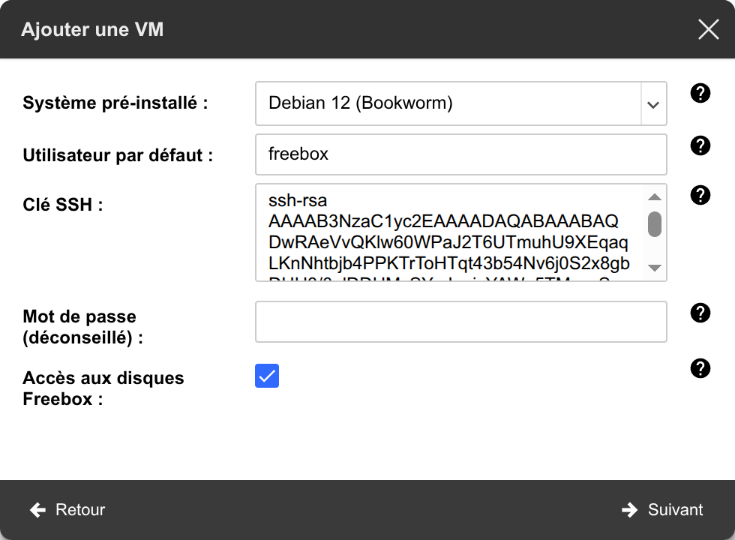
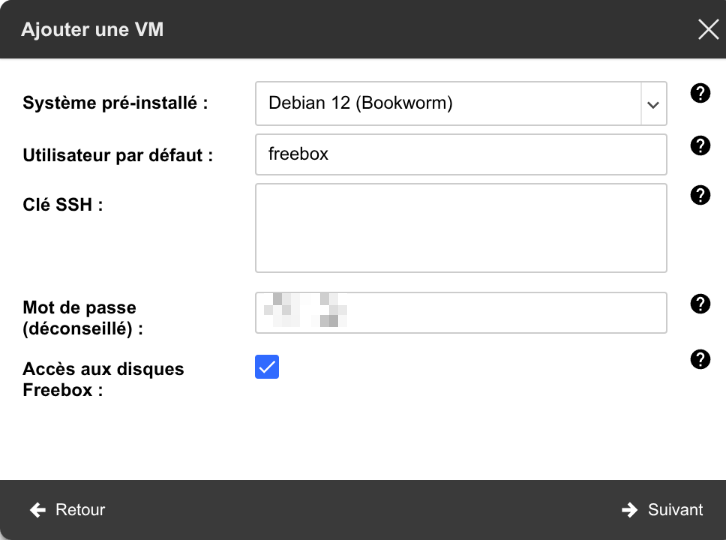
README: install steps follow Freebox OS (cloud-init in VM properties, Appliquer), new screenshots, measured install times

diff --git a/README.md b/README.md
@@ -42,10 +42,18 @@ la vidéo) et le résultat est affiché dans la page.
    - Cochez **Accès aux disques Freebox** (Ultra comme Delta) : Freebox OS ajoute alors au
      cloud-init le montage du disque de la Freebox, avec le bon nom selon le modèle.
 
-   ![Système, utilisateur et accès aux disques](docs/img/03-systeme-disques.png)
+   ![Système, utilisateur, mot de passe et accès aux disques](docs/img/03-systeme-disques.png)
 
-3. Freebox OS affiche ensuite le cloud-init qu'il a préparé. Ne changez rien, ajoutez
-   seulement **une ligne à la fin**, sous `- mount -a`, avec les mêmes 2 espaces devant :
+3. Taille du disque : le minimum proposé (10 Go) convient. Les enregistrements ne sont pas
+   stockés sur le disque de la VM mais sur celui de la Freebox. Cliquez sur **Terminer** :
+   la VM est créée, **ne la démarrez pas encore**.
+
+   ![Taille du disque](docs/img/04-taille-disque.png)
+
+4. Dans la fenêtre VMs, sélectionnez la nouvelle VM : ses propriétés s'affichent. Dans la
+   section **Pré-configuration**, la zone **cloud-init user-data** contient ce que Freebox OS
+   a préparé. Ne changez rien, ajoutez seulement **une ligne à la fin**, sous `- mount -a`,
+   avec les mêmes 2 espaces devant :
 
    ```yaml
      - curl -fsSL https://raw.githubusercontent.com/lianee/freebox-recorder/master/install.sh | bash > /var/log/fbxrec-install.log 2>&1
@@ -61,20 +69,16 @@ la vidéo) et le résultat est affiché dans la page.
 
    Cliquez ensuite sur **Appliquer** pour que la modification soit prise en compte.
 
-   <!-- TODO capture d'écran de l'étape cloud-init, ligne ajoutée et bouton Appliquer -->
+   ![Cloud-init avec la ligne ajoutée, bouton Appliquer](docs/img/03b-cloud-init.png)
 
-   À faire **avant le premier démarrage** : cloud-init ne s'exécute qu'une fois. Si vous
-   l'avez oublié, voir « Installation sur une VM existante ».
+   À faire **avant le premier démarrage** : cloud-init ne s'exécute qu'au premier
+   démarrage. Si vous l'avez oublié, voir « Installation sur une VM existante ».
 
    Freebox OS y écrit aussi `ssh_pwauth: True` : la connexion SSH par mot de passe est
    ouverte depuis le réseau local. Remplacez `True` par `False` si seule la Console de
    Freebox OS vous suffit.
-4. Taille du disque : le minimum proposé (10 Go) convient. Les enregistrements ne sont pas
-   stockés sur le disque de la VM mais sur celui de la Freebox.
 
-   ![Taille du disque](docs/img/04-taille-disque.png)
-
-5. Démarrez la VM. Elle s'installe toute seule : environ 3 minutes sur Ultra, 10 minutes sur
+5. Démarrez la VM. Elle s'installe toute seule : environ 2 minutes sur Ultra, 10 minutes sur
    Delta.
 6. Donnez-lui une adresse fixe : dans la fenêtre VMs, menu **Réseau > Configurer un bail
    DHCP**, choisissez une adresse en dehors de la plage distribuée automatiquement. Sinon
